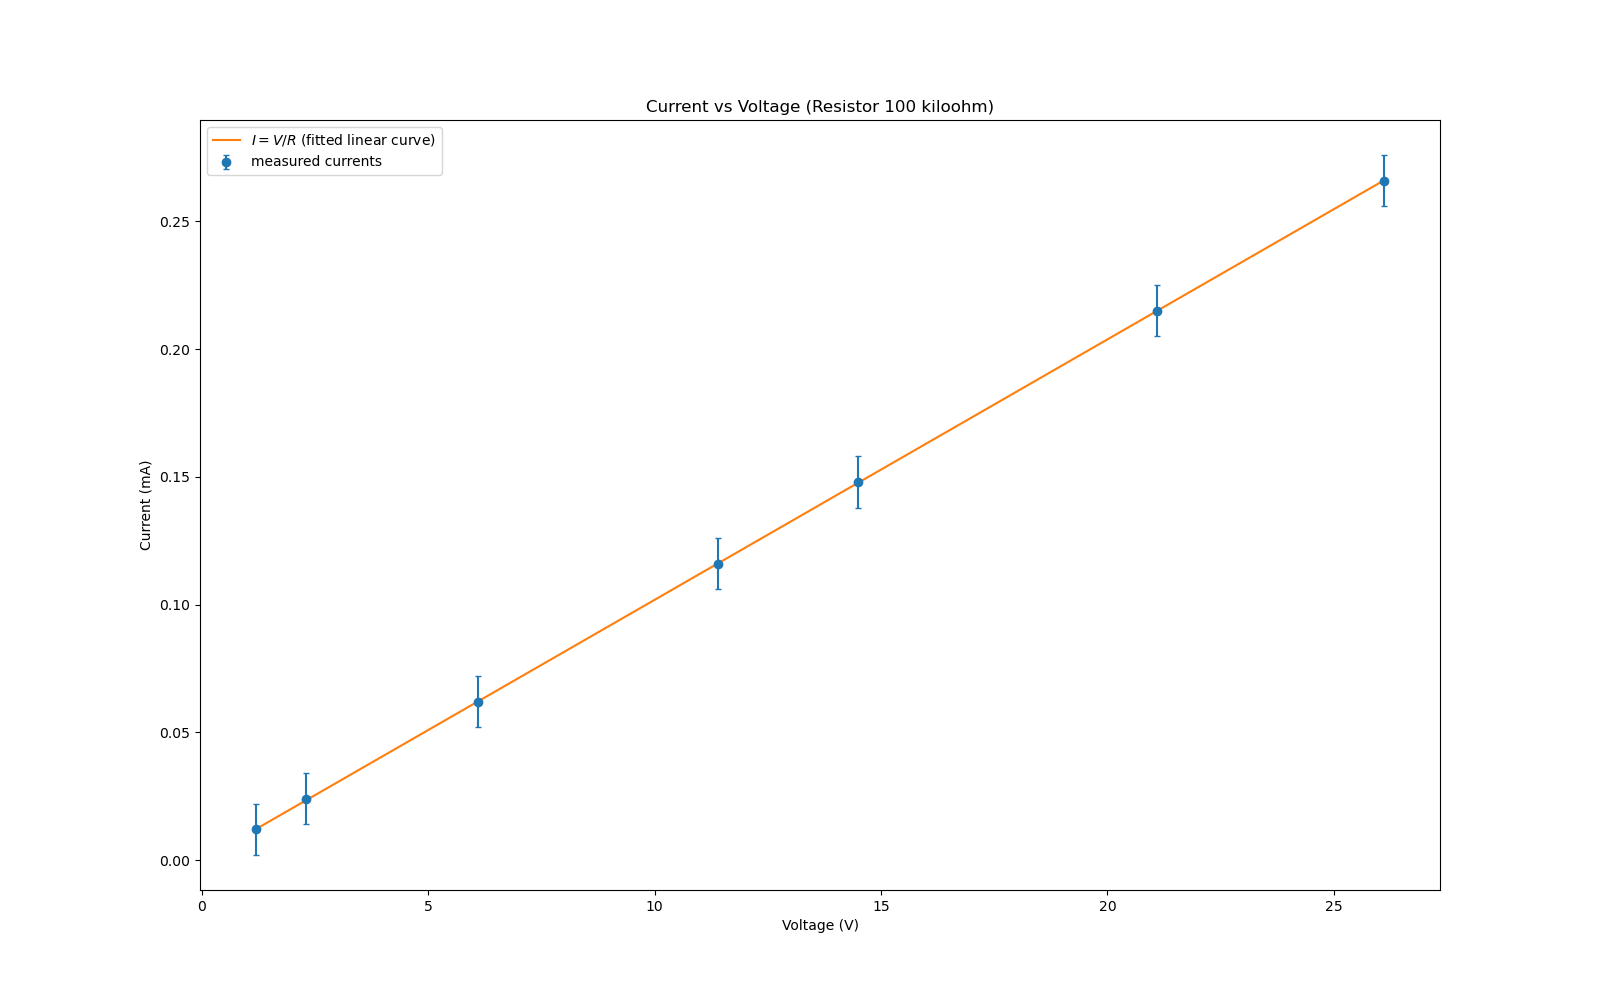
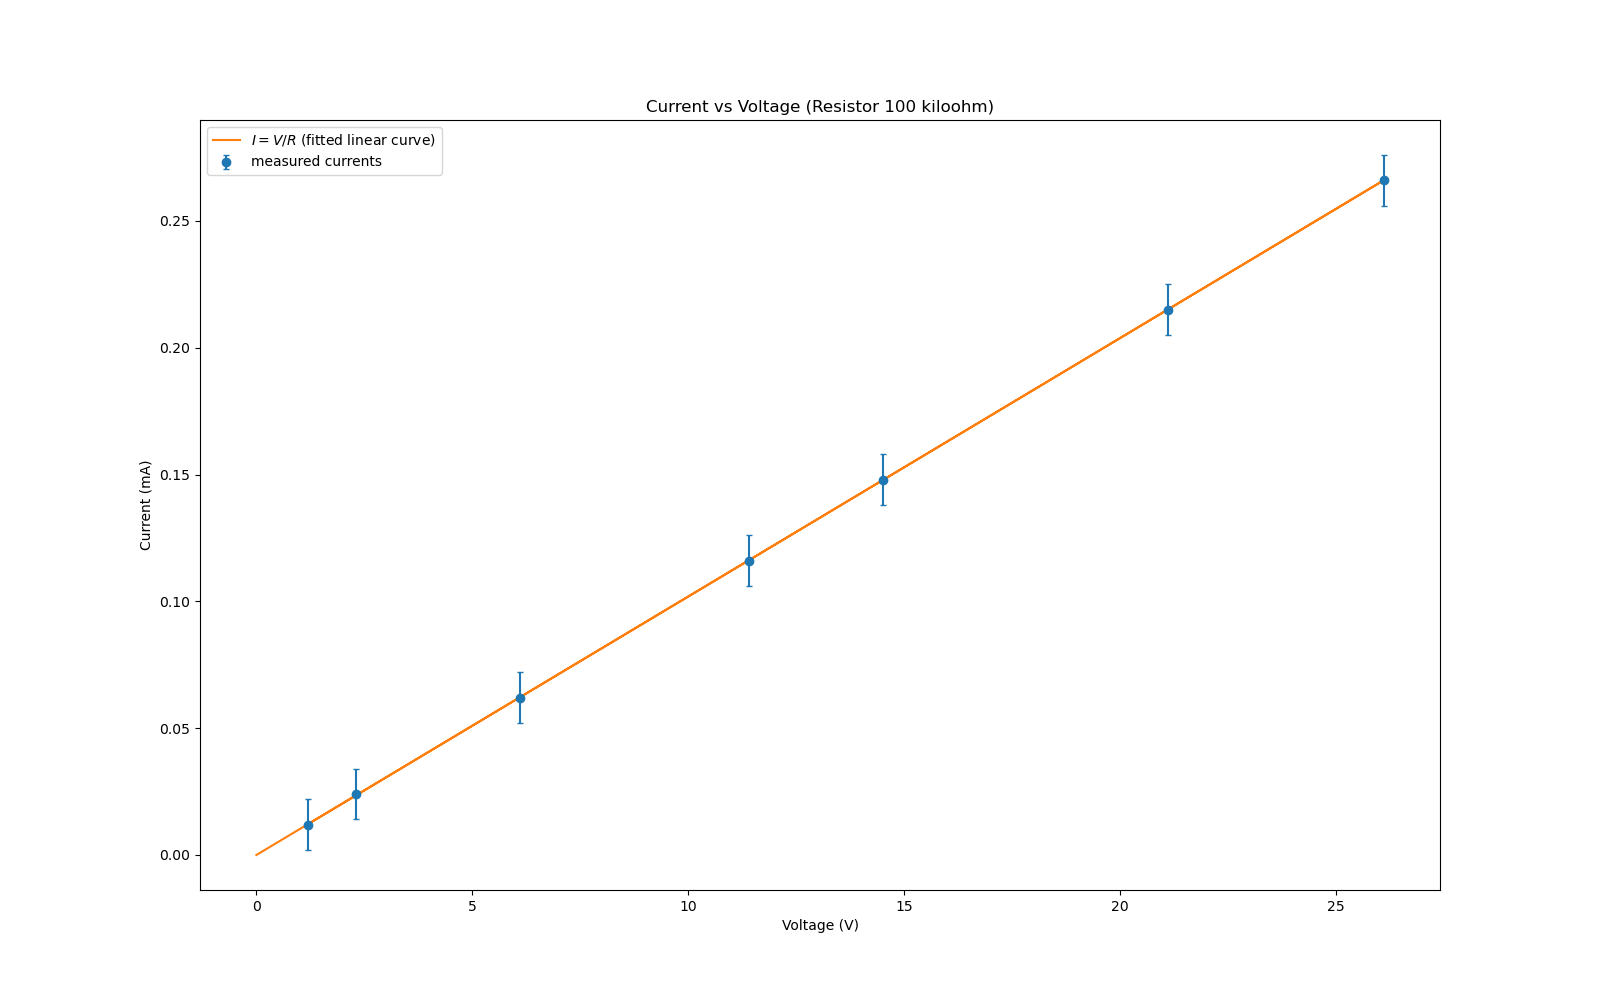
add 0 data point to voltage

diff --git a/lab1/lab_1_ex_1_code.py b/lab1/lab_1_ex_1_code.py
@@ -68,8 +68,10 @@ plt.errorbar(measured_voltages,
              ls="")
 
 # plot the fitted curve
-plt.plot(measured_voltages, 
-         compute_current(measured_voltages, popt[0]),
+# add 0 to the measured data set
+measured_voltages_with_0 = np.append(measured_voltages, 0)
+plt.plot(measured_voltages_with_0, 
+         compute_current(measured_voltages_with_0, popt[0]),
          label='$I = V/R$ (fitted linear curve)')
 
 # legend and title
